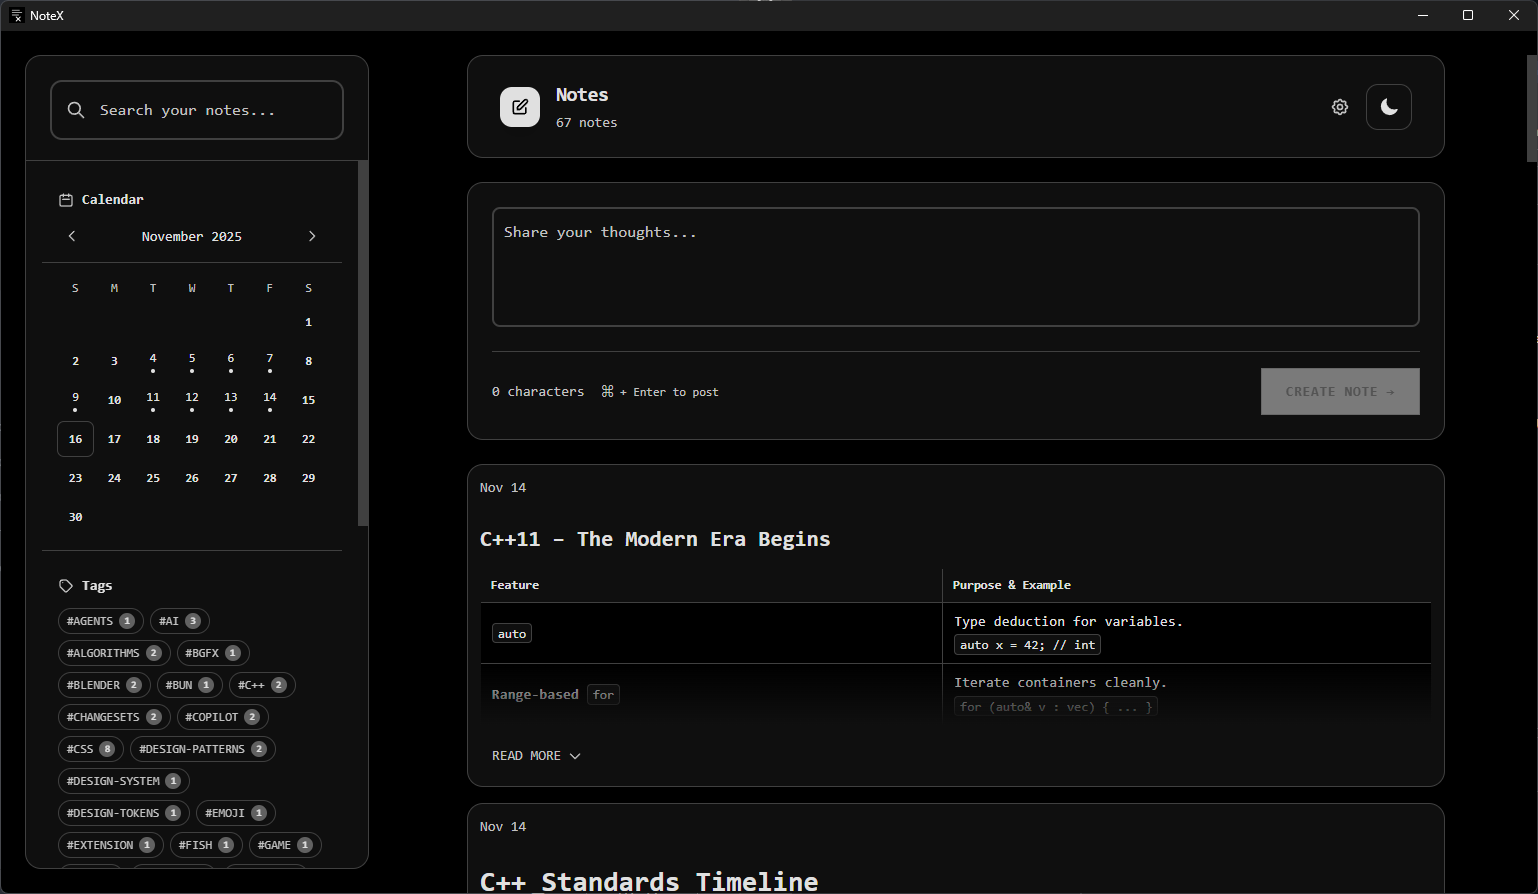
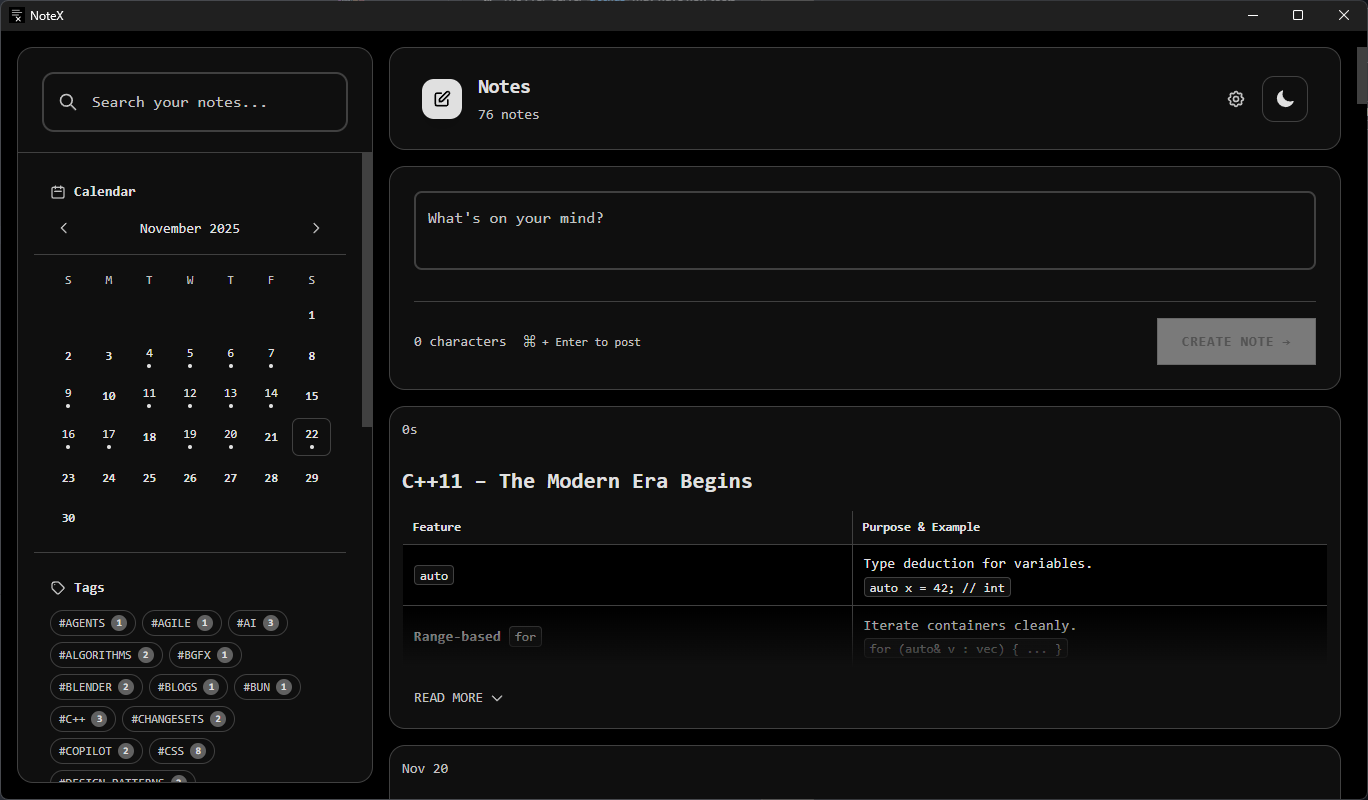
style: Make app window smaller and more compact (#71)

diff --git a/desktop/src/App.vue b/desktop/src/App.vue
@@ -359,54 +359,51 @@ const editNote = async (id: number, content: string) => {
 }
 
 .main-container {
+  display: grid;
+  grid-template-columns: 380px 1fr;
   height: 100vh;
-  display: flex;
   overflow: hidden;
 }
 
 .side-panel-container {
   width: 380px;
-  position: fixed;
-  left: 0;
-  top: 0;
-  bottom: 0;
-  padding: 1.5rem;
-  padding-right: 0.75rem;
+  max-height: 100vh;
+  padding: 1rem;
+  padding-right: 0.5rem;
   display: flex;
   flex-direction: column;
   z-index: 10;
 }
 
 .content-wrapper {
-  flex: 1;
-  margin-left: 380px;
-  padding-top: 1.5rem;
-  padding-left: 0.75rem;
+  max-width: 986px;
+  max-height: 100vh;
+  padding-top: 1rem;
+  padding-left: 0.5rem;
   display: flex;
   height: 100%;
   overflow: hidden;
 }
 
 .right-column {
-  flex: 1;
   display: flex;
   flex-direction: column;
   height: 100%;
   overflow: hidden;
+  flex-grow: 1;
 }
 
 .notes-feed-container {
   flex: 1;
   overflow-y: auto;
-  padding-right: 0.5rem;
+  padding-right: 1rem;
   display: flex;
   flex-direction: column;
   align-items: center;
 }
 
 .note-creator-wrapper {
-  margin-bottom: 1.5rem;
-  max-width: 978px;
+  margin-bottom: 1rem;
   width: 100%;
 }
 
@@ -414,7 +411,6 @@ const editNote = async (id: number, content: string) => {
   display: flex;
   flex-direction: column;
   gap: 1rem;
-  max-width: 978px;
   width: 100%;
 }
 

diff --git a/desktop/src/components/Textarea.vue b/desktop/src/components/Textarea.vue
@@ -1,4 +1,5 @@
 <script setup lang="ts">
+import { watch } from 'vue';
 import { useTextareaAutosize } from '@vueuse/core';
 
 interface Props {
@@ -21,6 +22,15 @@ const { textarea, input } = useTextareaAutosize({
   styleProp: 'minHeight',
   input: props.modelValue,
 });
+
+watch(
+  () => props.modelValue,
+  (newValue) => {
+    if (input.value !== newValue) {
+      input.value = newValue;
+    }
+  },
+);
 
 const emit = defineEmits<{
   'update:modelValue': [value: string];

diff --git a/desktop/src/components/NotesHeader.vue b/desktop/src/components/NotesHeader.vue
@@ -77,8 +77,7 @@ const handleSettingsClick = () => {
   background-color: var(--color-surface);
   border: 1px solid var(--color-border);
   border-radius: 1rem;
-  margin-bottom: 1.5rem;
-  max-width: 978px;
+  margin-bottom: 1rem;
   width: 100%;
 }
 
@@ -86,7 +85,6 @@ const handleSettingsClick = () => {
   display: flex;
   justify-content: space-between;
   padding: 1.5rem 2rem;
-  max-width: 978px;
 }
 
 .header-content {

diff --git a/desktop/src/components/NoteCreator.vue b/desktop/src/components/NoteCreator.vue
@@ -16,7 +16,6 @@ const canPost = computed(() => {
 });
 
 const createNote = () => {
-  console.log(noteContent.value);
   if (canPost.value) {
     emit('create', noteContent.value);
     noteContent.value = '';
